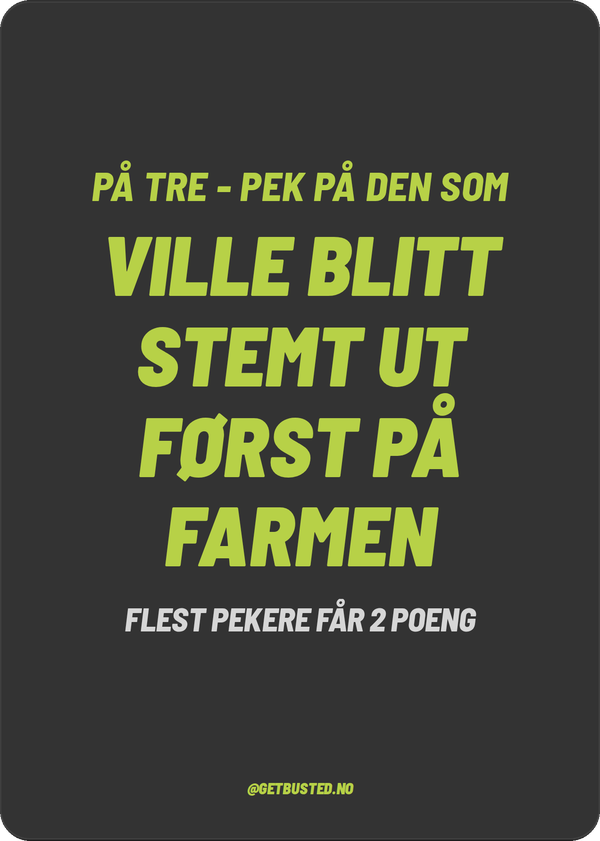
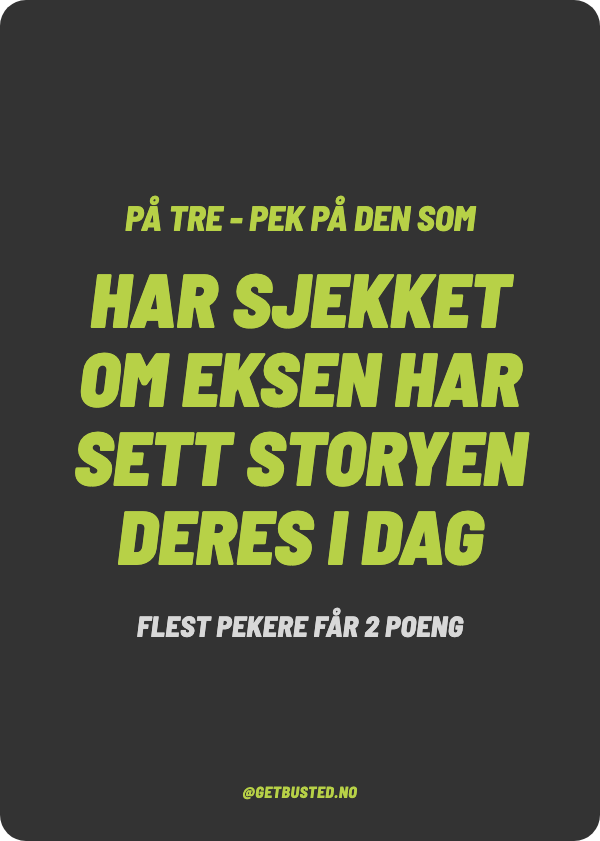
Forside: kompakt samtykkebanner, fiks strukne omslag, nytt heltekort, pakkegalleri og flaggermus uten tekst
- Samtykkebanner: kort tekst, to små knapper side om side, maks 360 px bred
- Omslagene i hero var strukket (width i CSS, height-attributt 503 uten height:auto): satt aspect-ratio og object-fit, og img height:auto globalt
- Heltekort: «har sjekket om eksen har sett storyen deres i dag» (GB094) i stedet for Farmen-kortet
- Pakkegalleri under hero (Original, Halloween, Jul, Nach, Hytta), sidelengs scroll på mobil
- Flaggermusene flyr i stripa øverst, ikke over teksten

diff --git a/style.css b/style.css
@@ -12,7 +12,7 @@
 * { box-sizing: border-box; margin: 0; padding: 0; }
 html { scroll-behavior: smooth; }
 body { background: var(--bg); color: var(--fg); font: 18px/1.55 "Barlow Semi Condensed", system-ui, -apple-system, sans-serif; font-weight: 500; -webkit-font-smoothing: antialiased; overflow-x: hidden; }
-img { max-width: 100%; display: block; }
+img { max-width: 100%; height: auto; display: block; }
 a { color: var(--lime); }
 .wrap { max-width: 1160px; margin: 0 auto; padding: 0 20px; }
 h1, h2, h3, .display { font-weight: 900; font-style: italic; text-transform: uppercase; line-height: 1; letter-spacing: .2px; overflow-wrap: break-word; }
@@ -56,7 +56,7 @@ section.alt { background: var(--bg2); }
 
 .stage { position: relative; height: 560px; }
 .stage .cover, .stage .card img { position: absolute; border-radius: 16px; }
-.stage .cover { width: 230px; top: 90px; box-shadow: 0 0 0 1.5px color-mix(in srgb, var(--c) 70%, transparent), 0 24px 60px -12px color-mix(in srgb, var(--c) 65%, transparent), 0 30px 60px rgba(0,0,0,.55); }
+.stage .cover { width: 230px; height: auto; aspect-ratio: 360 / 503; object-fit: cover; top: 90px; box-shadow: 0 0 0 1.5px color-mix(in srgb, var(--c) 70%, transparent), 0 24px 60px -12px color-mix(in srgb, var(--c) 65%, transparent), 0 30px 60px rgba(0,0,0,.55); }
 .stage .cover.l { left: 28px; transform: rotate(-11deg); }
 .stage .cover.r { right: 0; transform: rotate(10deg); top: 110px; }
 .stage .card img { position: relative; width: 100%; height: auto; border-radius: 22px; box-shadow: 0 0 0 2px rgba(183,209,71,.75), 0 0 60px -6px rgba(183,209,71,.55), 0 40px 80px rgba(0,0,0,.6); }
@@ -70,14 +70,29 @@ section.alt { background: var(--bg2); }
   .stage .cover { width: 180px; top: 80px; }
   .stage .cover.r { top: 100px; }
 }
-@media (max-width: 420px) { .stage { height: 420px; } .stage .card { width: 220px; } .stage .cover { width: 150px; } }
+@media (max-width: 420px) { .stage { height: 370px; } .stage .card { width: 220px; } .stage .cover { width: 150px; } }
 
 /* tall */
-.stats { display: grid; grid-template-columns: repeat(4, 1fr); gap: 12px; margin-top: -24px; position: relative; z-index: 2; }
+.stats { display: grid; grid-template-columns: repeat(4, 1fr); gap: 12px; margin-top: 8px; position: relative; z-index: 2; }
+
+/* pakkegalleri rett under hero: 5 kolonner på desktop, sidelengs scroll på mobil */
+.gallery { padding: 8px 0 28px; }
+.gal { display: grid; grid-template-columns: repeat(5, minmax(0, 1fr)); gap: 18px; }
+.gp { display: block; text-decoration: none; min-width: 0; }
+.gp picture { display: block; border-radius: 14px; box-shadow: 0 0 0 1.5px color-mix(in srgb, var(--c) 55%, transparent), 0 16px 34px -14px color-mix(in srgb, var(--c) 70%, transparent); transition: transform .25s; }
+.gp img { width: 100%; height: auto; aspect-ratio: 360 / 503; object-fit: cover; border-radius: 14px; }
+.gp:hover picture { transform: translateY(-5px) rotate(-1deg); }
+.gp b { display: block; margin-top: 10px; font-weight: 900; font-style: italic; text-transform: uppercase; font-size: 19px; line-height: 1.05; color: var(--c); text-align: center; }
+@media (max-width: 720px) {
+  .gallery .wrap { padding-right: 0; }
+  .gal { display: flex; gap: 14px; overflow-x: auto; scroll-snap-type: x mandatory; padding: 10px 20px 14px 2px; scrollbar-width: none; -webkit-overflow-scrolling: touch; }
+  .gal::-webkit-scrollbar { display: none; }
+  .gp { flex: 0 0 132px; scroll-snap-align: start; }
+}
 .stats div { background: var(--card2); border: 1px solid var(--line); border-radius: 18px; padding: 18px 20px; text-align: center; }
 .stats b { display: block; font-weight: 900; font-style: italic; font-size: clamp(30px, 4vw, 44px); line-height: 1; color: var(--lime); text-transform: uppercase; }
 .stats span { color: var(--muted); font-size: 16px; }
-@media (max-width: 720px) { .stats { grid-template-columns: 1fr 1fr; margin-top: 12px; } }
+@media (max-width: 720px) { .stats { grid-template-columns: 1fr 1fr; } }
 
 /* steg */
 .steps { display: grid; grid-template-columns: repeat(3, 1fr); gap: 16px; margin-top: 30px; }
@@ -186,7 +201,7 @@ footer a { color: var(--fg); margin-right: 16px; display: inline-block; }
 .season-fx { position: absolute; inset: 0; width: 100%; height: 100%; pointer-events: none; z-index: 0; }
 .season-pill { display: inline-block; margin-bottom: 16px; padding: 5px 14px 4px; border: 2px solid var(--season, var(--lime)); border-radius: 16px; color: var(--season, var(--lime)); text-decoration: none; line-height: 1.35; font-weight: 800; font-style: italic; text-transform: uppercase; font-size: 15px; letter-spacing: .5px; box-shadow: 0 0 20px color-mix(in srgb, var(--season, #B7D147) 30%, transparent); }
 .season-pill[hidden] { display: none; }
-@media (prefers-reduced-motion: reduce) { .feature, .pack picture { transition: none; } }
+@media (prefers-reduced-motion: reduce) { .feature, .pack picture, .gp picture { transition: none; } }
 
 /* Tilgjengelighet: synlig fokus, hopp-lenke og skjult tekst for skjermlesere */
 :focus-visible { outline: 3px solid var(--lime); outline-offset: 3px; border-radius: 6px; }
@@ -207,10 +222,10 @@ footer a { color: var(--fg); margin-right: 16px; display: inline-block; }
 footer .footer-links a { margin-bottom: 8px; }
 footer .footer-firma { color: var(--muted); }
 
-/* Samtykke til statistikk */
-.consent { position: fixed; left: 16px; right: 16px; bottom: 16px; z-index: 90; max-width: 560px; margin: 0 auto; background: #2A2A2A; border: 1px solid rgba(255,255,255,.18); border-radius: 18px; padding: 18px 20px; box-shadow: 0 20px 50px rgba(0,0,0,.55); color: var(--fg); font-size: 16px; }
-.consent p { margin: 0 0 10px; color: #D6D4CC; line-height: 1.45; }
-.consent .consent-t { color: var(--fg); font-weight: 800; font-size: 19px; margin-bottom: 6px; }
-.consent a { color: var(--lime); }
-.consent-b { display: flex; gap: 10px; }
-.consent-b button { flex: 1; font: inherit; font-weight: 800; font-size: 17px; padding: 12px 14px; border-radius: 12px; cursor: pointer; background: #F3F1EA; color: #1E1E1E; border: 2px solid #F3F1EA; }
+/* Samtykke til statistikk: kompakt boks nederst til venstre (hele bunnen på mobil, men lav) */
+.consent { position: fixed; left: 12px; right: 12px; bottom: 12px; z-index: 90; max-width: 360px; background: #2A2A2A; border: 1px solid rgba(255,255,255,.18); border-radius: 14px; padding: 10px 12px; box-shadow: 0 12px 32px rgba(0,0,0,.55); color: var(--fg); font-size: 14px; }
+.consent p { margin: 0 0 8px; color: #D6D4CC; line-height: 1.35; }
+.consent a { color: var(--lime); white-space: nowrap; }
+.consent-b { display: flex; gap: 8px; }
+.consent-b button { flex: 1; font: inherit; font-weight: 800; font-size: 14px; line-height: 1.2; padding: 7px 10px; border-radius: 10px; cursor: pointer; background: #F3F1EA; color: #1E1E1E; border: 2px solid #F3F1EA; }
+@media (min-width: 560px) { .consent { right: auto; left: 16px; bottom: 16px; } }

diff --git a/index.html b/index.html
@@ -60,6 +60,18 @@
   </div>
 </section>
 
+<section class="gallery" aria-label="Pakkene som er med fra start">
+  <div class="wrap">
+    <div class="gal">
+      <a class="gp" href="#pakker" style="--c:#B7D147"><picture><source srcset="/img/cover_original.webp" type="image/webp"><img src="/img/cover_original.jpg" alt="Omslaget til Original-pakken" width="360" height="503" loading="lazy"></picture><b>Original</b></a>
+      <a class="gp" href="#pakker" style="--c:#FF8A1F"><picture><source srcset="/img/cover_halloween.webp" type="image/webp"><img src="/img/cover_halloween.jpg" alt="Omslaget til Halloween-pakken" width="360" height="503" loading="lazy"></picture><b>Halloween</b></a>
+      <a class="gp" href="#pakker" style="--c:#E0473E"><picture><source srcset="/img/cover_jul.webp" type="image/webp"><img src="/img/cover_jul.jpg" alt="Omslaget til Jul-pakken" width="360" height="503" loading="lazy"></picture><b>Jul</b></a>
+      <a class="gp" href="#pakker" style="--c:#8E7CFF"><picture><source srcset="/img/cover_nach.webp" type="image/webp"><img src="/img/cover_nach.jpg" alt="Omslaget til Nach-pakken" width="360" height="503" loading="lazy"></picture><b>Nach</b></a>
+      <a class="gp" href="#pakker" style="--c:#C7864A"><picture><source srcset="/img/cover_hytta.webp" type="image/webp"><img src="/img/cover_hytta.jpg" alt="Omslaget til Hytta-pakken" width="360" height="503" loading="lazy"></picture><b>Hytta</b></a>
+    </div>
+  </div>
+</section>
+
 <div class="wrap">
   <div class="stats">
     <div><b>1 000+</b><span>kort fra start</span></div>

diff --git a/samtykke.js b/samtykke.js
@@ -45,9 +45,7 @@
     box.setAttribute('role', 'region');
     box.setAttribute('aria-label', 'Samtykke til statistikk');
     box.innerHTML =
-      '<p class="consent-t">Vil du hjelpe oss med statistikk?</p>' +
-      '<p>Vi vil gjerne telle besøk med Metricool for å se hvilke sider som blir lest. Det settes ingen informasjonskapsler, men nettleseren sender blant annet IP-adressen din til Metricool. Sier du nei, sendes ingenting. ' +
-      '<a href="/informasjonskapsler/">Les mer</a></p>' +
+      '<p>Vi teller besøk anonymt med Metricool. Godta? <a href="/informasjonskapsler/">Les mer</a></p>' +
       '<div class="consent-b"><button type="button" data-v="0">Avslå</button><button type="button" data-v="1">Godta</button></div>';
     box.querySelectorAll('button').forEach(function (b) {
       b.addEventListener('click', function () { choose(b.getAttribute('data-v') === '1'); });

diff --git a/season.js b/season.js
@@ -141,7 +141,7 @@
         else { p.y += p.v; if (p.y > 1.05) { p.y = -0.05; p.x = Math.random(); } }
         p.rot += p.vr; p.sw += 0.02;
       }
-      var x = p.x * W + Math.sin(p.sw) * (T.p === 'snow' ? 8 : 22), y = p.y * H;
+      var x = p.x * W + Math.sin(p.sw) * (T.p === 'snow' ? 8 : 22), y = T.p === 'bats' ? 20 + p.y * 24 : p.y * H; // flaggermus flyr i stripa øverst, over teksten
       ctx.save(); ctx.translate(x, y); ctx.fillStyle = p.c;
       if (T.p === 'snow' || T.p === 'sun') {
         ctx.globalAlpha = T.p === 'sun' ? 0.35 : 0.55; ctx.beginPath(); ctx.arc(0, 0, p.s, 0, 6.28); ctx.fill();
